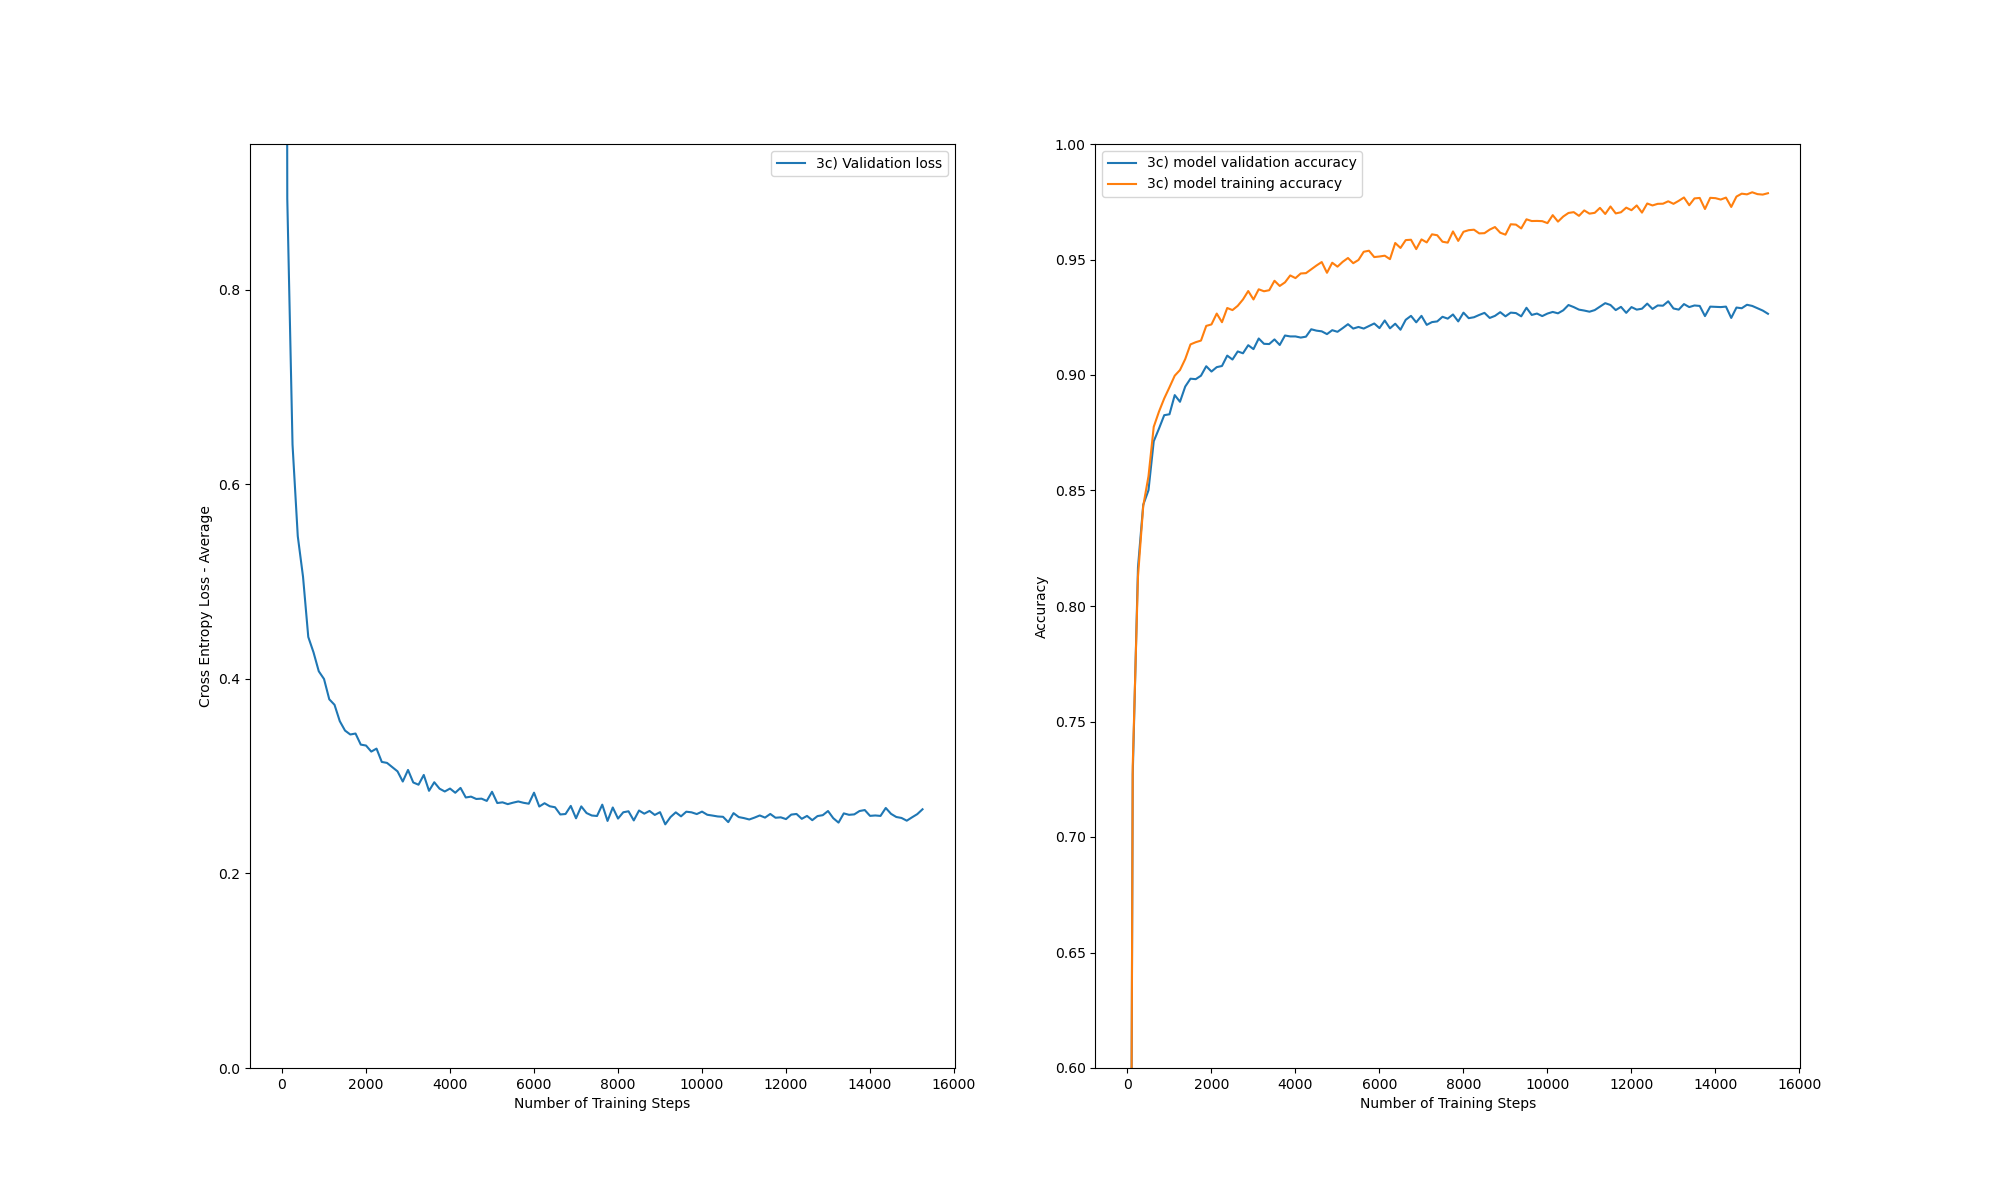
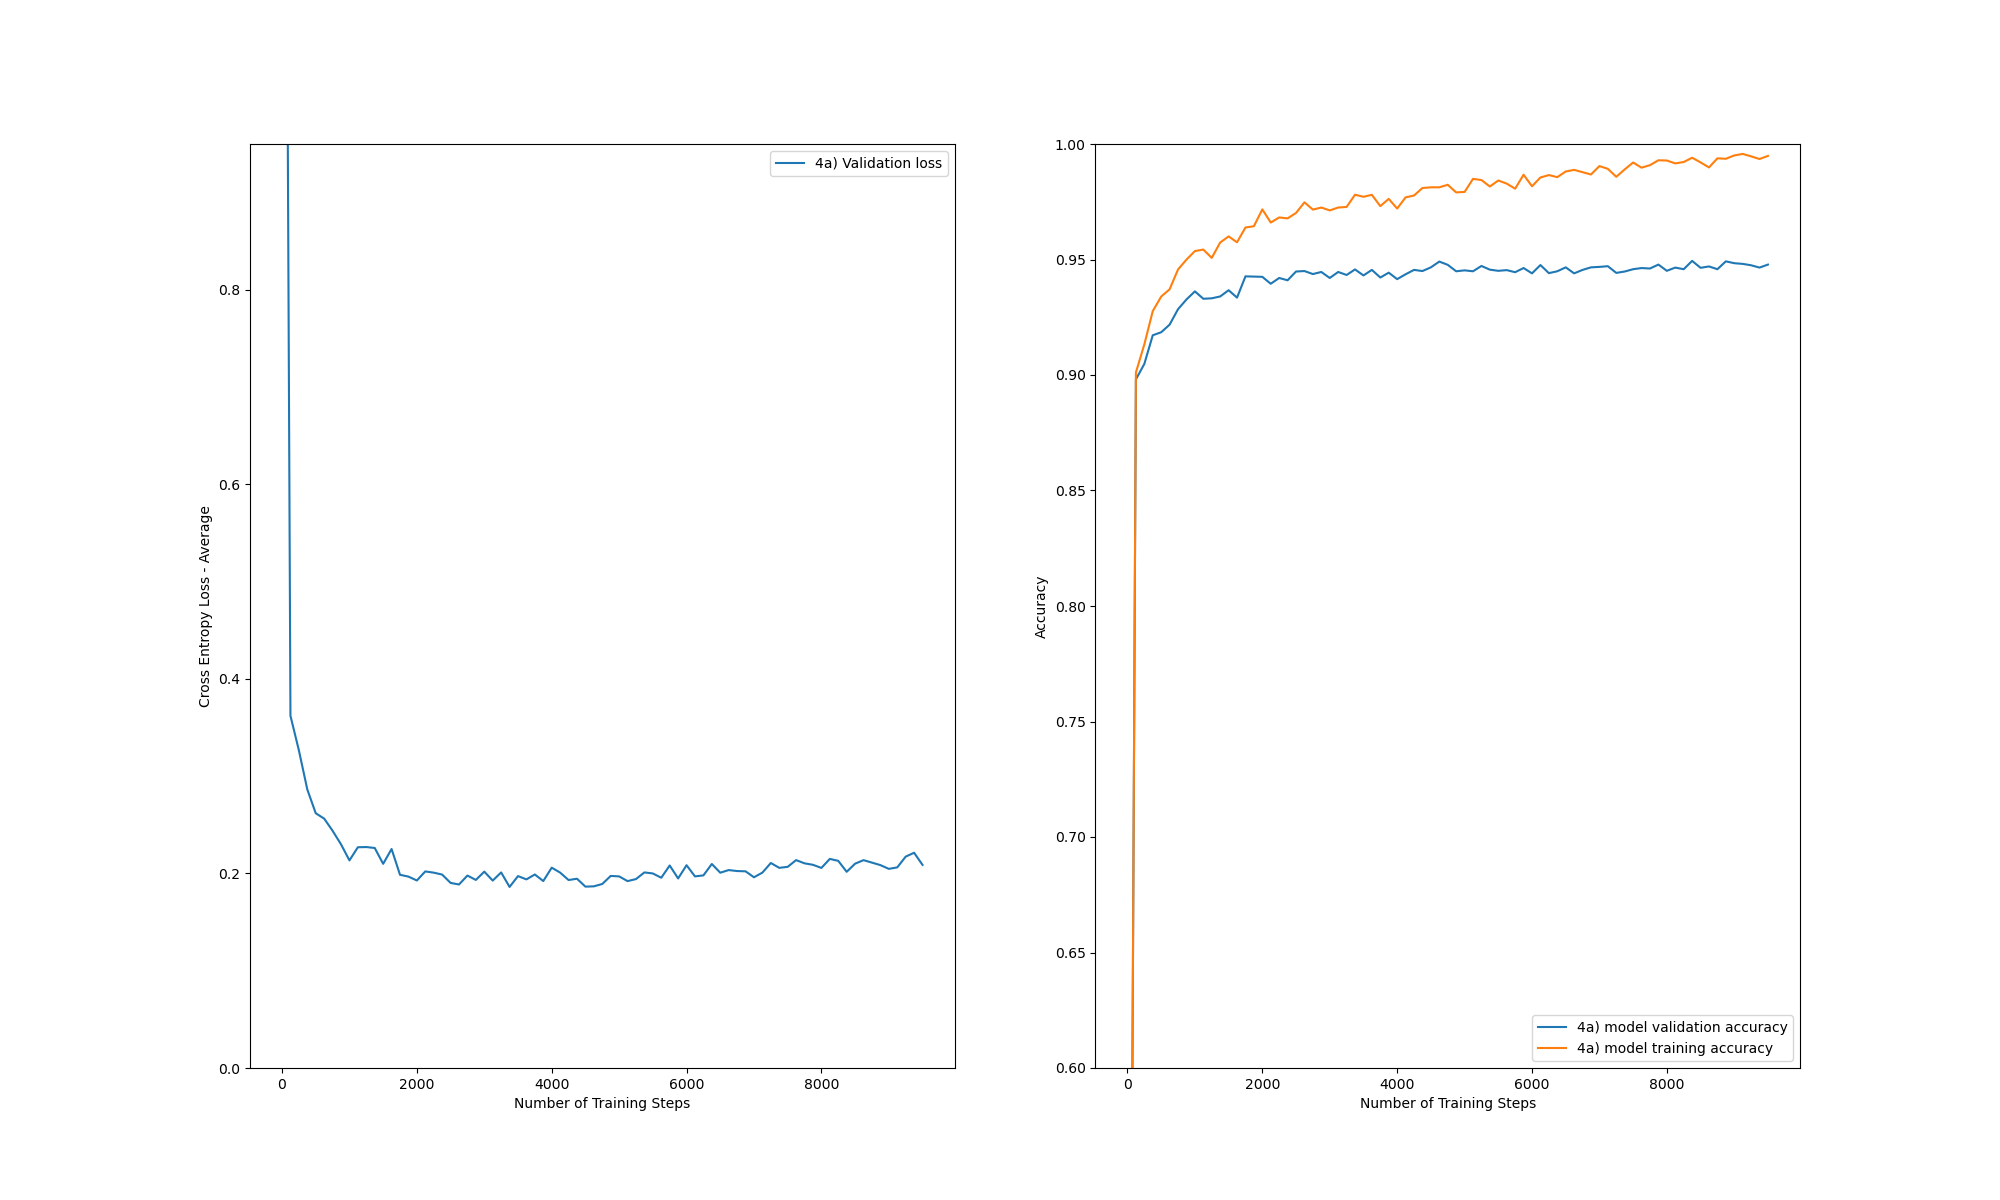
rerun task 4a and 4b

diff --git a/assignment2/task3.py b/assignment2/task3.py
@@ -9,7 +9,7 @@ def main():
     num_epochs = 50
     learning_rate = .1
     batch_size = 32
-    neurons_per_layer = [64, 10]
+    neurons_per_layer = [128, 10]
     momentum_gamma = .9  # Task 3 hyperparameter
     shuffle_data = True
 
@@ -46,10 +46,12 @@ def main():
             accuracy_tra_legend = "3b) model training accuracy"
         elif i == 3:
             learning_rate = 0.02
+            use_improved_weight_init = True
+            use_improved_sigmoid = True
             use_momentum = True
-            val_legend = "3c) Validation loss"
-            accuracy_val_legend = "3c) model validation accuracy"
-            accuracy_tra_legend = "3c) model training accuracy"
+            val_legend = "4b) Validation loss"
+            accuracy_val_legend = "4b) model validation accuracy"
+            accuracy_tra_legend = "4b) model training accuracy"
 
         model = SoftmaxModel(
             neurons_per_layer,
@@ -87,7 +89,7 @@ def main():
     plt.xlabel("Number of Training Steps")
     plt.ylabel("Accuracy")
     plt.legend()
-    plt.savefig('task4a.png')
+    plt.savefig('task4b.png')
     plt.show()
 
 
